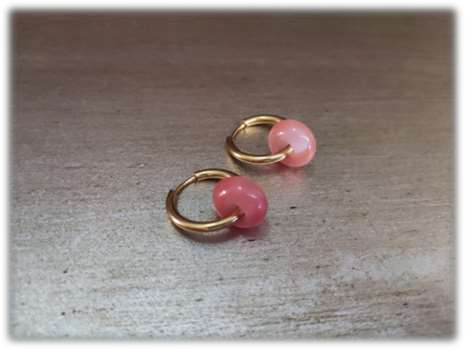
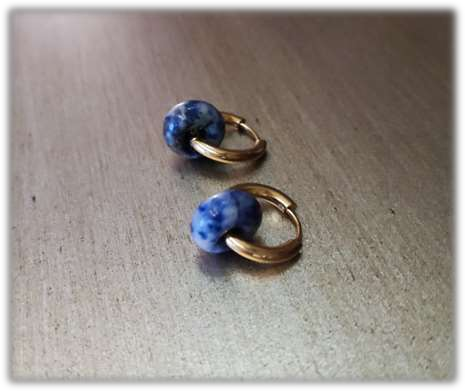
Añadir formulario de compra y actualizar productos

diff --git a/js/carrito.js b/js/carrito.js
@@ -38,7 +38,13 @@ if (carrito.length === 0) {
 
     });
 
-    html += `<h2>Total: ${total.toFixed(2)} €</h2>`;
+    html += `
+    <h2>Total: ${total.toFixed(2)} €</h2>
+
+    <button id="button-comprar" onclick="comprar()">
+        Comprar
+    </button>
+     `;
 
     contenedor.innerHTML = html;
 
@@ -51,5 +57,127 @@ function eliminar(indice){
     localStorage.setItem("carrito",JSON.stringify(carrito));
 
     location.reload();
+
+}
+function comprar(){
+
+    contenedor.innerHTML = `
+        <div class="formulario-compra">
+
+            <h2>Datos del pedido</h2>
+
+            <form id="form-compra">
+
+                <label>Nombre</label>
+                <input type="text" id="nombre" name="nombre" required>
+
+                <label>Apellidos</label>
+                <input type="text" id="apellidos" name="apellidos" required>
+
+                <label>Número de teléfono</label>
+                <input type="tel" id="telefono" name="telefono" required>
+
+                <label>Correo electrónico</label>
+                <input type="email" id="correo" name="email" required>
+
+                <label>Dirección</label>
+                <input type="text" id="calle" name="calle" placeholder="Calle" required>
+
+                <input type="text" id="portal" name="portal" placeholder="Número de portal" required>
+
+                <input type="text" id="ciudad" name="ciudad" placeholder="Ciudad" required>
+
+                <input type="text" id="codigo-postal" name="codigo_postal" placeholder="Código postal" required>
+
+                <input type="hidden" name="_subject" value="Nuevo pedido - MIMA Joyas">
+
+                <input type="hidden" name="_template" value="table">
+
+                <button type="submit">
+                    OK
+                </button>
+
+            </form>
+
+        </div>
+    `;
+
+    document.getElementById("form-compra").addEventListener("submit", async function(event){
+
+        event.preventDefault();
+
+        const formulario = event.target;
+        const datos = new FormData(formulario);
+
+        // Preparar los productos del pedido
+        const productosPedido = carrito.map(producto =>
+            `${producto.nombre} - ${producto.precio}`
+        ).join("\n");
+
+        // Calcular el total
+        let total = 0;
+
+        carrito.forEach(producto => {
+            const precio = parseFloat(
+                producto.precio.replace("€", "").replace(",", ".")
+            );
+
+            total += precio;
+        });
+
+        datos.append("productos", productosPedido);
+        datos.append("total", `${total.toFixed(2)} €`);
+
+        try {
+
+            const respuesta = await fetch(
+                "https://formsubmit.co/ajax/ceciliamingocarreras16@gmail.com",
+                {
+                    method: "POST",
+                    headers: {
+                        "Accept": "application/json"
+                    },
+                    body: datos
+                }
+            );
+
+            const resultado = await respuesta.json();
+
+            if (resultado.success) {
+
+                contenedor.innerHTML = `
+                    <div class="formulario-compra">
+
+                        <h2>¡Pedido registrado!</h2>
+
+                        <p>
+                            Su pedido ha sido registrado.
+                        </p>
+
+                        <p>
+                            En breve recibirá un correo electrónico
+                            para gestionar el pago.
+                        </p>
+
+                    </div>
+                `;
+
+                localStorage.removeItem("carrito");
+
+            } else {
+
+                alert("No se ha podido enviar el pedido. Inténtalo de nuevo.");
+
+            }
+
+        } catch (error) {
+
+            console.error(error);
+
+            alert("Ha ocurrido un error al enviar el pedido.");
+
+        }
+
+    });
 
 }

diff --git a/js/productos.js b/js/productos.js
@@ -346,6 +346,14 @@ const productos = [
 },
 {
     categoria: "pendientes",
+    id: "marmol",
+    nombre: "Mármol",
+    descripcion: "Aros dorados de acero inoxidable de 14 mm con piedra natural redonda en tono blanco y negro. También disponible en rosa y azul.",
+    precio: "10€",
+    imagen: "imagenes/pendientes/marmol.jpg"
+},
+{
+    categoria: "pendientes",
     id: "media-luna",
     nombre: "Media Luna",
     descripcion: "Aros con cristales insertados y original colgante de media luna.",
@@ -364,9 +372,17 @@ const productos = [
     categoria: "pendientes",
     id: "nebulosa",
     nombre: "Nebulosa",
-    descripcion: "Aros dorados de acero inoxidable de 14 mm con piedra natural redonda en tono azul. También disponible en Ocaso y Mármol.",
+    descripcion: "Aros dorados de acero inoxidable de 14 mm con piedra natural redonda en tono rosa. También disponible en rosa y blanco/negro.",
     precio: "9€",
     imagen: "imagenes/pendientes/nebulosa.jpg"
+},
+{
+    categoria: "pendientes",
+    id: "ocaso",
+    nombre: "Ocaso",
+    descripcion: "Aros dorados de acero inoxidable de 14 mm con piedra natural redonda en tono rosa. También disponible en azul y blanco/negro.",
+    precio: "9€",
+    imagen: "imagenes/pendientes/ocaso.jpg"
 },
 {
     categoria: "pendientes",

diff --git a/css/style.css b/css/style.css
@@ -293,3 +293,46 @@ p{
     color:white;
     transform:scale(1.1);
 }
+
+.formulario-compra {
+    max-width: 500px;
+    margin: 30px auto;
+    padding: 25px;
+    background: white;
+    border-radius: 15px;
+    box-shadow: 0 4px 12px rgba(0,0,0,0.15);
+}
+
+.formulario-compra h2 {
+    text-align: center;
+    margin-bottom: 25px;
+}
+
+.formulario-compra form {
+    display: flex;
+    flex-direction: column;
+    gap: 10px;
+}
+
+.formulario-compra label {
+    font-weight: bold;
+    margin-top: 8px;
+}
+
+.formulario-compra input {
+    width: 100%;
+    box-sizing: border-box;
+    padding: 12px;
+    border: 1px solid #ccc;
+    border-radius: 8px;
+    font-size: 16px;
+}
+
+.formulario-compra button {
+    margin-top: 15px;
+    padding: 12px;
+    border: none;
+    border-radius: 8px;
+    cursor: pointer;
+    font-size: 16px;
+}
